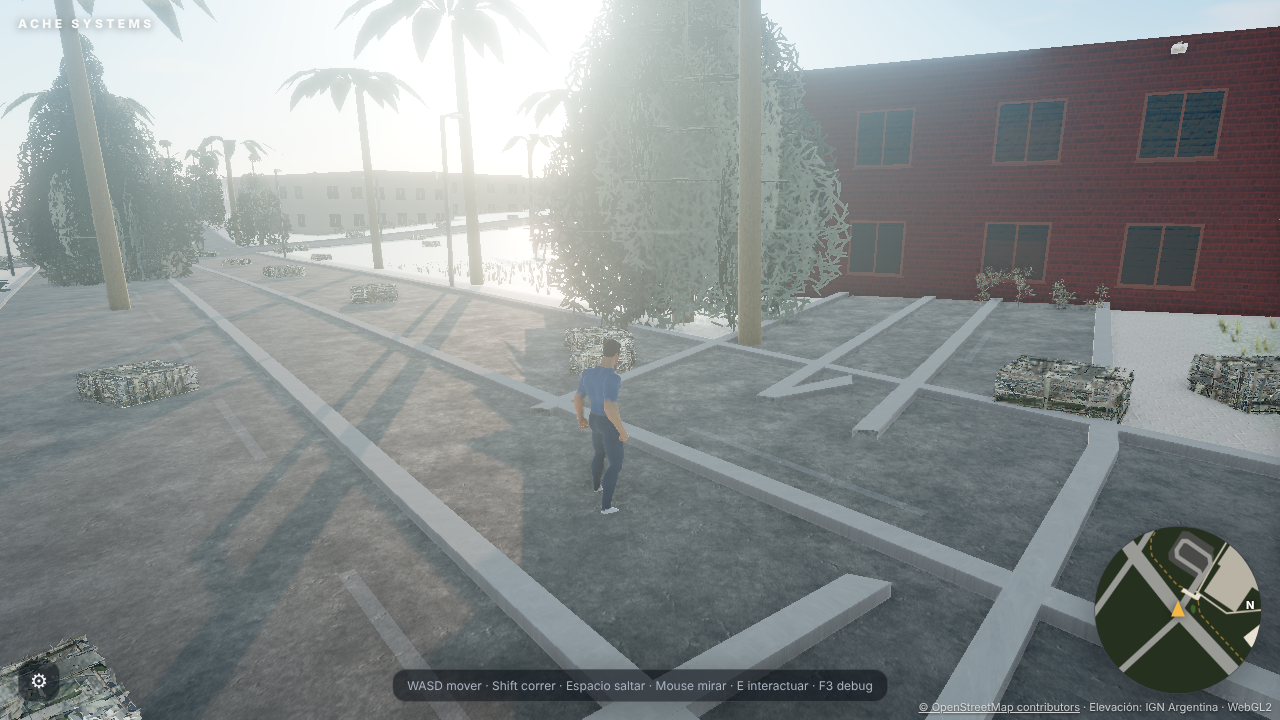
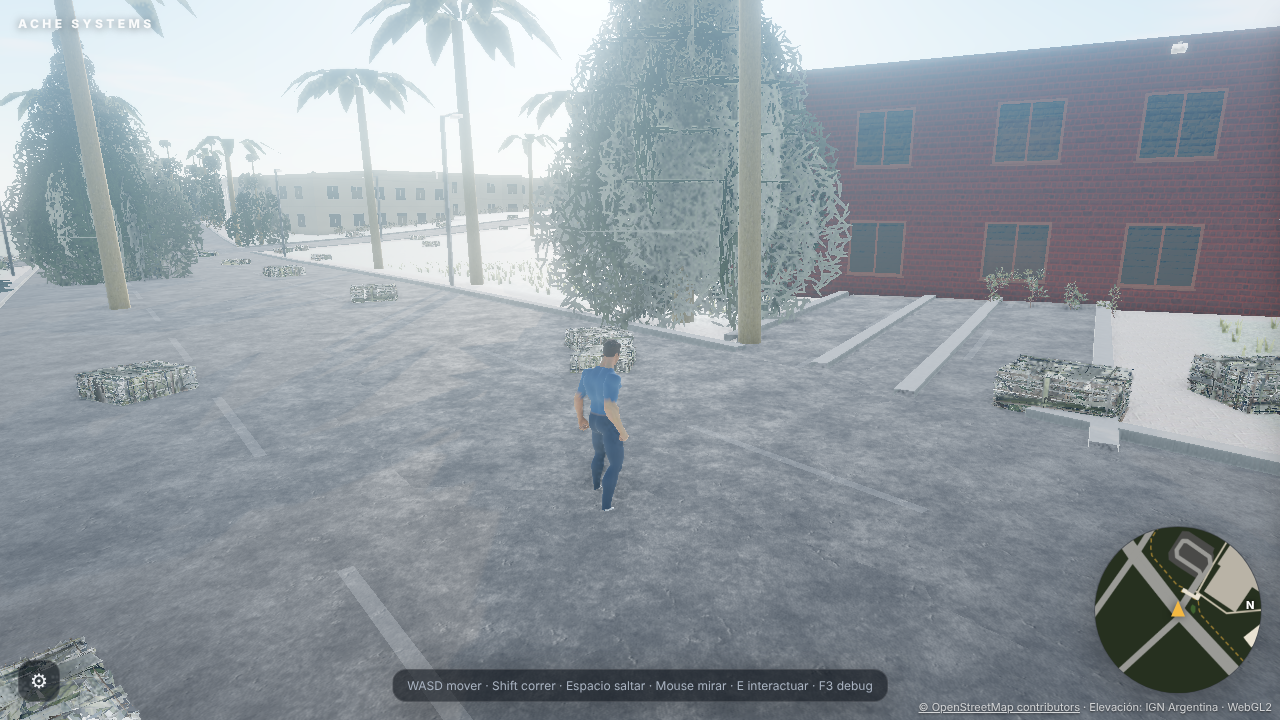
tweak(look): ACES tone mapping with more contrast/saturation, tamer IBL, darker scanned leaves, benches out of parking lots
Claude-Session: https://claude.ai/code/session_01MoHA6AdwaAggRVLV61YJyA

diff --git a/src/world/props/PropsBuilder.ts b/src/world/props/PropsBuilder.ts
@@ -4,7 +4,7 @@ import type { HeightSampler } from '@shared/terrain/heightField';
 import type { WorldData } from '@shared/world/types';
 import { benchPositions, shrubPositions, type Placement } from '../../domain/props/placement';
 import { partsOf } from '../vegetation/modelParts';
-import { distanceToPolyline } from '@shared/geo/polygon';
+import { distanceToPolyline, pointInPolygon } from '@shared/geo/polygon';
 import type { VegetationMaterials } from '../vegetation/VegetationMaterials';
 
 interface PropSpec {
@@ -44,7 +44,9 @@ export async function buildProps(
   const half = Math.ceil(shrubs.length / 2);
   const paths = world.roads.filter((r) => r.class === 'path').map((r) => ({ points: r.points, width: r.width }));
   const roads = world.roads.filter((r) => r.class === 'road');
-  const clearOfRoads = (p: Placement): boolean => roads.every((r) => distanceToPolyline(p, r.points) > r.width / 2 + 1.5);
+  const hardAreas = world.areas.filter((a) => a.kind === 'parking' || a.kind === 'pitch' || a.kind === 'plaza' || a.kind === 'water');
+  const clearOfRoads = (p: Placement): boolean =>
+    roads.every((r) => distanceToPolyline(p, r.points) > r.width / 2 + 1.5) && !hardAreas.some((a) => pointInPolygon(p, a.polygon));
   const benches = benchPositions(paths, 45).filter(clearOfRoads);
   const specs: PropSpec[] = [
     { url: 'models/vegetation/shrub_03_lod0.glb', height: 0.9, placements: shrubs.slice(0, half), castShadow: true },

diff --git a/src/render/RendererFactory.ts b/src/render/RendererFactory.ts
@@ -30,8 +30,9 @@ export async function createRenderer(canvas: HTMLCanvasElement, antialias: boole
   const backendObj = renderer.backend as { isWebGPUBackend?: boolean };
   const backend: BackendKind = backendObj.isWebGPUBackend ? 'webgpu' : 'webgl2';
   renderer.outputColorSpace = SRGBColorSpace;
-  renderer.toneMapping = new URLSearchParams(location.search).get('tonemap') === 'aces' ? ACESFilmicToneMapping : AgXToneMapping;
-  renderer.toneMappingExposure = 1;
+  // ACES por defecto: más contraste y saturación (look cinematográfico); `?tonemap=agx` para comparar.
+  renderer.toneMapping = new URLSearchParams(location.search).get('tonemap') === 'agx' ? AgXToneMapping : ACESFilmicToneMapping;
+  renderer.toneMappingExposure = 0.9;
   renderer.shadowMap.enabled = true;
   renderer.shadowMap.type = PCFShadowMap;
   return { renderer, backend };

diff --git a/src/render/sky/SkySystem.ts b/src/render/sky/SkySystem.ts
@@ -106,8 +106,8 @@ export class SkySystem implements GameSystem {
     this.hemi.groundColor.copy(lerpColor('#111418', '#5b5140', mix.sun));
     this.fog.color.copy(lerpColor('#0d1422', '#cbd9e3', mix.sun).lerp(new Color('#e3b48a'), mix.golden * 0.6));
     this.fog.density = 0.0007 + 0.0003 * mix.golden;
-    this.scene.environmentIntensity = 0.08 + 0.75 * mix.sun;
-    this.renderer.toneMappingExposure = 1 + 0.6 * mix.night;
+    this.scene.environmentIntensity = 0.06 + 0.5 * mix.sun;
+    this.renderer.toneMappingExposure = 0.9 + 0.6 * mix.night;
     sceneUniforms.night.value = mix.night;
 
     if (Math.abs(this.hour - this.envHour) > ENV_REFRESH_HOURS) this.refreshEnvironment();

diff --git a/src/render/materials/VegetationMaterialLibrary.ts b/src/render/materials/VegetationMaterialLibrary.ts
@@ -58,7 +58,9 @@ export class VegetationMaterialLibrary implements VegetationMaterials {
       const leaves = src.alphaTest > 0 || src.transparent || /leaf|leaves/i.test(src.name);
       const m = new MeshStandardNodeMaterial({ side: leaves ? DoubleSide : src.side, alphaTest: leaves ? 0.5 : 0 });
       m.map = src.map;
-      m.normalMap = src.normalMap;
+      // En hojas recortadas y de doble cara el normal map produce reversos muy claros: se omite.
+      m.normalMap = leaves ? null : src.normalMap;
+      if (leaves) m.color.setScalar(0.78);
       m.roughnessMap = src.roughnessMap;
       m.metalnessMap = src.metalnessMap;
       m.aoMap = src.aoMap;

diff --git a/src/render/post/PostPipeline.ts b/src/render/post/PostPipeline.ts
@@ -31,7 +31,7 @@ export function createPostPipeline(renderer: WebGPURenderer, scene: Scene, camer
 
   // Grading: leve contraste y saturación + viñeta.
   const lum = luminance(result);
-  result = mix(vec3(lum), result, float(1.08));
+  result = mix(vec3(lum), result, float(1.18));
   const vignette = smoothstep(0.95, 0.35, length(screenUV.sub(0.5)).mul(1.25));
   result = result.mul(mix(float(0.82), float(1), vignette));
   pipeline.outputNode = vec4(result, 1);
